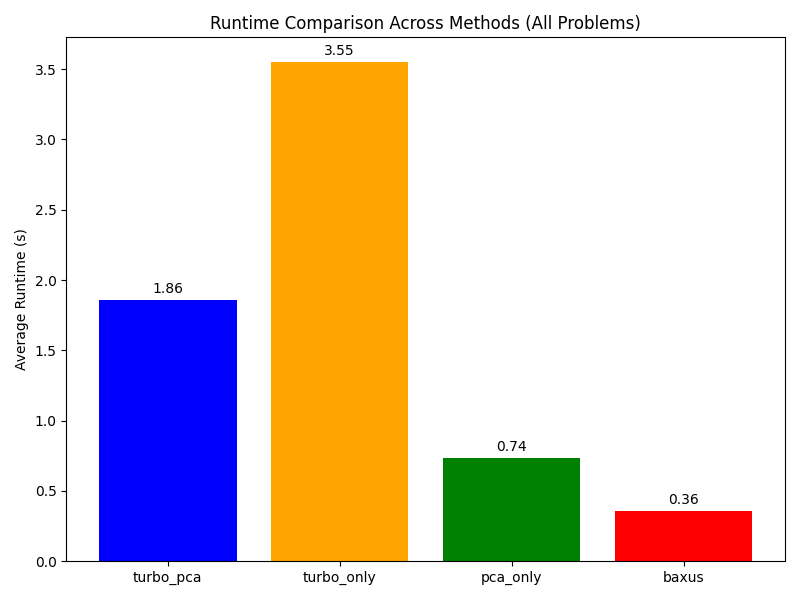
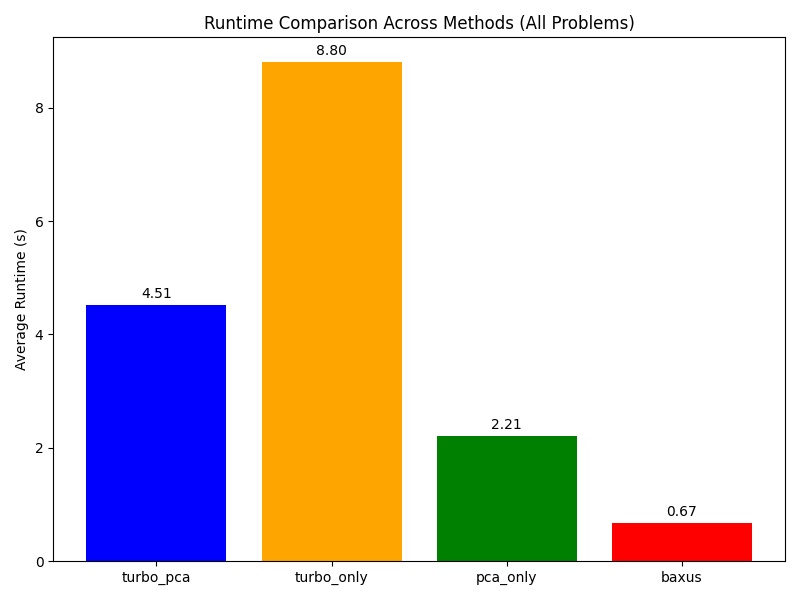
corrected plot code

diff --git a/plot_code.py b/plot_code.py
@@ -9,69 +9,98 @@ from collections import defaultdict
 from tqdm import tqdm
 import re
 
+# ===================== Helper Functions =====================
+
 def find_dat_files(root_dir):
-    pattern = os.path.join(root_dir, "data-*-f*-dim*", "ioh_data-*", "*", "*.dat")
+    pattern = os.path.join(root_dir, "data-*-f*-dim*", "ioh_data-*/data_f*_*", "IOHprofiler_f*_DIM*.dat")
     dat_files = glob.glob(pattern, recursive=True)
-    
+
     parsed_files = []
-    run_counter = defaultdict(lambda: defaultdict(lambda: defaultdict(int)))
+    run_counter = defaultdict(lambda: defaultdict(lambda: defaultdict(int)))  # dim -> fid -> method -> count
+
     for file_path in dat_files:
         parts = file_path.split(os.sep)
-        data_folder = parts[-4]
-        ioh_data_folder = parts[-3]
-        run_folder = parts[-2]
-        dat_file = parts[-1]
+        try:
+            data_folder = parts[-4]
+            ioh_data_folder = parts[-3]
+            run_folder = parts[-2]
+            dat_file = parts[-1]
+        except IndexError:
+            continue
 
         match = re.match(r"data-(?P<method>.+)-f(?P<fid>\d+)-dim(?P<dim>\d+)", data_folder)
         if not match:
-            print(f"Warning: Data folder name '{data_folder}' does not match expected pattern. Skipping file {file_path}.")
             continue
         method = match.group('method')
         fid = int(match.group('fid'))
         dim = int(match.group('dim'))
 
         instance_match = re.match(r"ioh_data(?:-(?P<instance>\d+))?", ioh_data_folder)
-        instance = int(instance_match.group('instance')) if instance_match.group('instance') else 0
-
-        run_match = re.match(r"data_f(?P<fid>\d+)_(?P<function_name>.+)", run_folder)
-        if not run_match:
-            print(f"Warning: Run folder name '{run_folder}' does not match expected pattern. Skipping file {file_path}.")
+        if not instance_match:
             continue
-        run_fid = int(run_match.group('fid'))
-        function_name = run_match.group('function_name')
+        instance = int(instance_match.group('instance')) if instance_match.group('instance') else 1
+
+        run_match = re.match(r"data_f(?P<fid_run>\d+)_.*", run_folder)
+        if not run_match:
+            continue
+        fid_run = int(run_match.group('fid_run'))
+
+        if fid_run != fid:
+            continue
 
         run_counter[dim][fid][method] += 1
         repetition = run_counter[dim][fid][method]
 
-        expected_dat_filename = f"IOHprofiler_f{fid}_DIM{dim}.dat"
         parsed_files.append((method, fid, dim, instance, repetition, file_path))
+
     return parsed_files
 
 def read_dat_file(file_path, problematic_files):
     try:
         df = pd.read_csv(file_path, sep='\s+', comment='#')
-        if df.empty:
-            print(f"Warning: {file_path} is empty or contains only comments. Skipping this file.")
-            problematic_files.append(file_path)
-            return None, None
-        if df.shape[1] < 2:
-            print(f"Warning: {file_path} does not have at least two columns. Skipping this file.")
+        if df.empty or df.shape[1] < 2:
             problematic_files.append(file_path)
             return None, None
         evals = df.iloc[:, 0].values
         raw_y = df.iloc[:, 1].values
         return evals, raw_y
     except pd.errors.EmptyDataError:
-        print(f"Warning: {file_path} has no data to parse. Skipping this file.")
         problematic_files.append(file_path)
         return None, None
-    except Exception as e:
-        print(f"Error reading {file_path}: {e}")
+    except Exception:
         problematic_files.append(file_path)
         return None, None
 
 def compute_best_so_far(raw_y):
     return np.minimum.accumulate(raw_y)
+
+def map_best_f_to_common_evals(evals, best_f, common_evals):
+    if len(evals) == 0:
+        return np.full_like(common_evals, np.inf, dtype=np.float64)
+
+    sorted_idx = np.argsort(evals)
+    evals_sorted = evals[sorted_idx]
+    best_f_sorted = best_f[sorted_idx]
+
+    mapped_best_f = np.full_like(common_evals, np.inf, dtype=np.float64)
+
+    current_best = np.inf
+    run_idx = 0
+    for i, ce in enumerate(common_evals):
+        while run_idx < len(evals_sorted) and evals_sorted[run_idx] <= ce:
+            current_best = min(current_best, best_f_sorted[run_idx])
+            run_idx += 1
+        mapped_best_f[i] = current_best if current_best != np.inf else np.nan
+
+    mask = np.isnan(mapped_best_f)
+    if np.any(mask):
+        if np.any(~np.isnan(mapped_best_f)):
+            first_valid = np.nanmin(mapped_best_f[~mask])
+            mapped_best_f = np.where(mask, first_valid, mapped_best_f)
+        else:
+            mapped_best_f = np.where(mask, np.inf, mapped_best_f)
+
+    return mapped_best_f
 
 def aggregate_runs(parsed_files, budget_multiplier=10):
     data = defaultdict(lambda: defaultdict(lambda: defaultdict(list)))
@@ -82,116 +111,110 @@ def aggregate_runs(parsed_files, budget_multiplier=10):
         _, fid, dim, _, _, _ = entry
         max_evals_per_dim[dim] = max(max_evals_per_dim[dim], budget_multiplier * dim)
 
+    common_evals_per_dim = {dim: np.arange(1, max_evals_per_dim[dim] + 1) for dim in max_evals_per_dim}
+
     for method, fid, dim, instance, repetition, file_path in tqdm(parsed_files, desc="Aggregating runs"):
         evals, raw_y = read_dat_file(file_path, problematic_files)
         if evals is None or raw_y is None:
-            continue  # Skip files that couldn't be read properly
+            continue
 
-        best_f = compute_best_so_far(raw_y)
+        sorted_idx = np.argsort(evals)
+        evals_sorted = evals[sorted_idx]
+        raw_y_sorted = raw_y[sorted_idx]
 
-        max_evals = budget_multiplier * dim
+        best_f = compute_best_so_far(raw_y_sorted)
+        common_evals = common_evals_per_dim[dim]
+        mapped_best_f = map_best_f_to_common_evals(evals_sorted, best_f, common_evals)
 
-        if len(best_f) < max_evals:
-            padding = max_evals - len(best_f)
-            best_f = np.concatenate([best_f, np.full(padding, best_f[-1])])
-        elif len(best_f) > max_evals:
-            best_f = best_f[:max_evals]
+        data[dim][fid][method].append(mapped_best_f)
 
-        data[dim][fid][method].append(best_f)
-    
-    if problematic_files:
-        print("\nList of problematic files:")
-        for pf in problematic_files:
-            print(pf)
-    
-    return data, max_evals_per_dim
+    return data, common_evals_per_dim
 
 def compute_average_best_f(data):
     avg_data = defaultdict(lambda: defaultdict(dict))
-    
+
     for dim in data:
         for fid in data[dim]:
             for method in data[dim][fid]:
                 runs = data[dim][fid][method]
                 if not runs:
-                    continue  # Skip if there are no runs
+                    continue
                 runs_array = np.array(runs)
                 avg_best_f = np.mean(runs_array, axis=0)
                 avg_data[dim][fid][method] = avg_best_f
-    
+
     return avg_data
 
-def plot_aggregated_performance(avg_data, max_evals_per_dim, output_dir):
+def plot_aggregated_performance(avg_data, common_evals_per_dim, output_dir):
     os.makedirs(output_dir, exist_ok=True)
-    
+
     for dim in sorted(avg_data.keys()):
         fids = sorted(avg_data[dim].keys())
         num_fids = len(fids)
-        
+
         cols = 3
         rows = int(np.ceil(num_fids / cols))
-        
+
         fig, axes = plt.subplots(rows, cols, figsize=(cols*5, rows*4), squeeze=False)
         fig.suptitle(f"Performance Comparison for Dimension {dim}", fontsize=16)
-        
+
+        common_evals = common_evals_per_dim[dim]
+
         for idx, fid in enumerate(fids):
             row = idx // cols
             col = idx % cols
             ax = axes[row][col]
-            
+
             methods = sorted(avg_data[dim][fid].keys())
             for method in methods:
                 avg_best_f = avg_data[dim][fid][method]
-                evals = np.arange(1, len(avg_best_f) + 1)
-                ax.plot(evals, avg_best_f, label=method)
-            
+                ax.plot(common_evals, avg_best_f, label=method)
+
             ax.set_xlabel("Evaluations")
             ax.set_ylabel("Best f so far")
-            ax.set_xscale('log')
-            ax.set_yscale('log')  # Logarithmic scale for y-axis
+            ax.set_xscale('linear')  # Set x-axis to linear scale
+            ax.set_yscale('log')     # Y-axis remains logarithmic
             ax.set_title(f"Function f{fid}")
             ax.legend()
-            ax.grid(True, which="both", ls="--", linewidth=0.5)
-        
+            ax.grid(True, which="both", ls="--", linewidth=0.5, alpha=0.7)
+
         total_subplots = rows * cols
         if num_fids < total_subplots:
             for idx in range(num_fids, total_subplots):
                 row = idx // cols
                 col = idx % cols
                 fig.delaxes(axes[row][col])
-        
+
         plt.tight_layout(rect=[0, 0.03, 1, 0.95])
-        
+
         plot_filename = f"aggregated_performance_dim{dim}"
         save_path = os.path.join(output_dir, f"{plot_filename}.png")
         plt.savefig(save_path)
-        
+
         plt.close()
 
+# ===================== Main Function =====================
+
 def main():
-    root_dir = '.'
+    root_dir = '.'  # Current directory
     output_dir = 'aggregated_plots'
-    
+
     parsed_files = find_dat_files(root_dir)
-    
+
     if not parsed_files:
-        print("No .dat files found. Please check the directory structure and file paths.")
         return
-    
-    data, max_evals_per_dim = aggregate_runs(parsed_files)
-    
+
+    data, common_evals_per_dim = aggregate_runs(parsed_files)
+
     if not data:
-        print("No valid data to aggregate. Exiting.")
         return
-    
+
     avg_data = compute_average_best_f(data)
-    
+
     if not avg_data:
-        print("No average data computed. Exiting.")
         return
-    
-    plot_aggregated_performance(avg_data, max_evals_per_dim, output_dir)
-    print(f"Plots have been saved to the '{output_dir}' directory.")
+
+    plot_aggregated_performance(avg_data, common_evals_per_dim, output_dir)
 
 if __name__ == "__main__":
     main()

diff --git a/opdr1b.py b/opdr1b.py
@@ -35,7 +35,7 @@ from gpytorch.models import ExactGP
 SHARED_PARAMS = {
     # Generic BO hyperparams
     "n_init": 10,          # Number of initial points
-    "batch_size": 32,
+    "batch_size": 16,
     "use_ard": True,
     "pca_components": 2,  # For PCA-based methods
     # TuRBO trust-region settings
@@ -49,11 +49,11 @@ SHARED_PARAMS = {
     # Candidate set
     # Logic: n_cand = min(100*d, 2500) kept inside each class
     # BAXUS-specific
-    "baxus_train_interval": 5,  # Only train GP every 5 steps
+    "baxus_train_interval": 2,  # Only train GP every 5 steps
     "baxus_fail_tol_factor": 4.0,
     "baxus_init_target_dim": 5,
     "baxus_seed": 0,
-    "max_evals_multiplier": 5,  # Used to calculate max_evals
+    "max_evals_multiplier": 10,  # Used to calculate max_evals
 }
 
 # ======================== Correct GP Implementation ========================
@@ -1306,7 +1306,7 @@ def main():
     Saves runtime results and generates a runtime comparison plot.
     """
     # Example BBOB test set
-    fids = [15]  # List of function IDs
+    fids = [1,8,12,15,21]  # List of function IDs
     instances = [0, 1, 2]  # List of instances
     dimensions = [40]  # List of dimensions
     methods = ["turbo_pca", "turbo_only", "pca_only", "baxus"]
